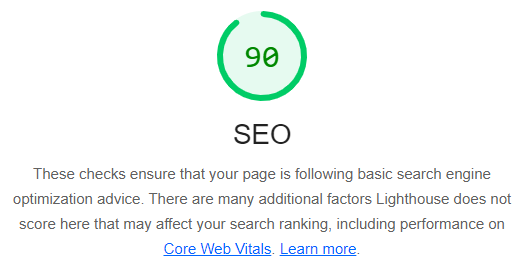
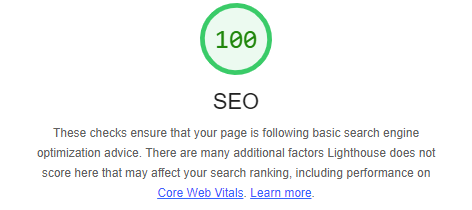
Presentation ok

diff --git a/new/index.html b/new/index.html
@@ -2,7 +2,7 @@
 <html lang="fr">
 <head>
     <meta charset="utf-8">
-
+    <meta name="description" content="L'agence La Panthère est une agence de web design qui aide les entreprises à devenir attractives et visibles sur internet.">
 <!--    <meta name="description" content=""> AJOUTER DESCRIPTION-->
     <meta name="viewport" content="width=device-width, initial-scale=1.0, viewport-fit=cover">
     <link rel="shortcut icon" type="image/png" href="favicon.jpg">
